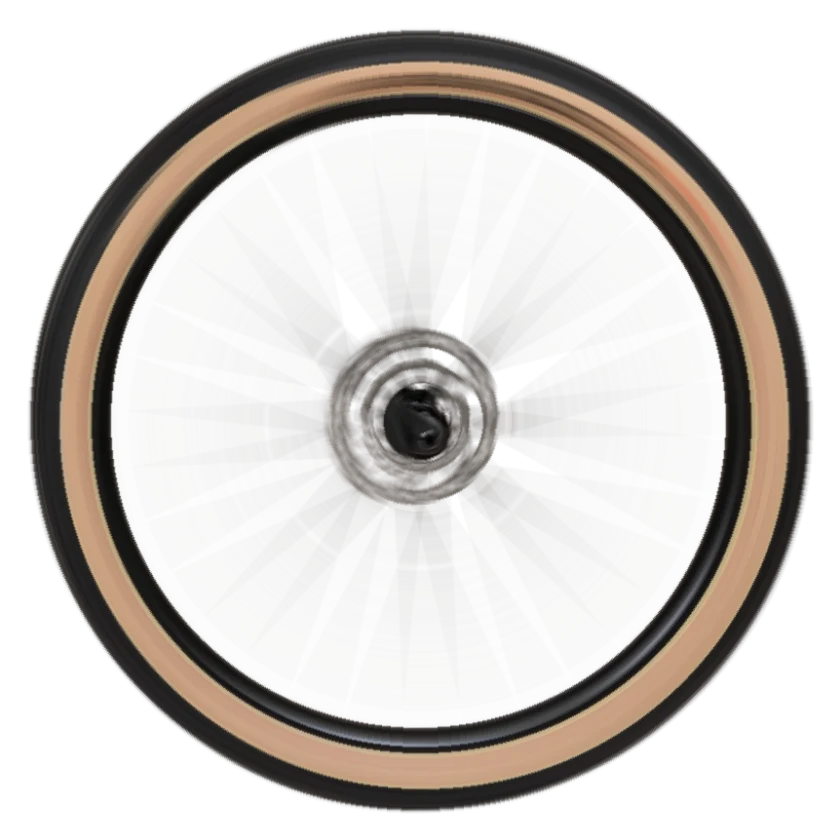
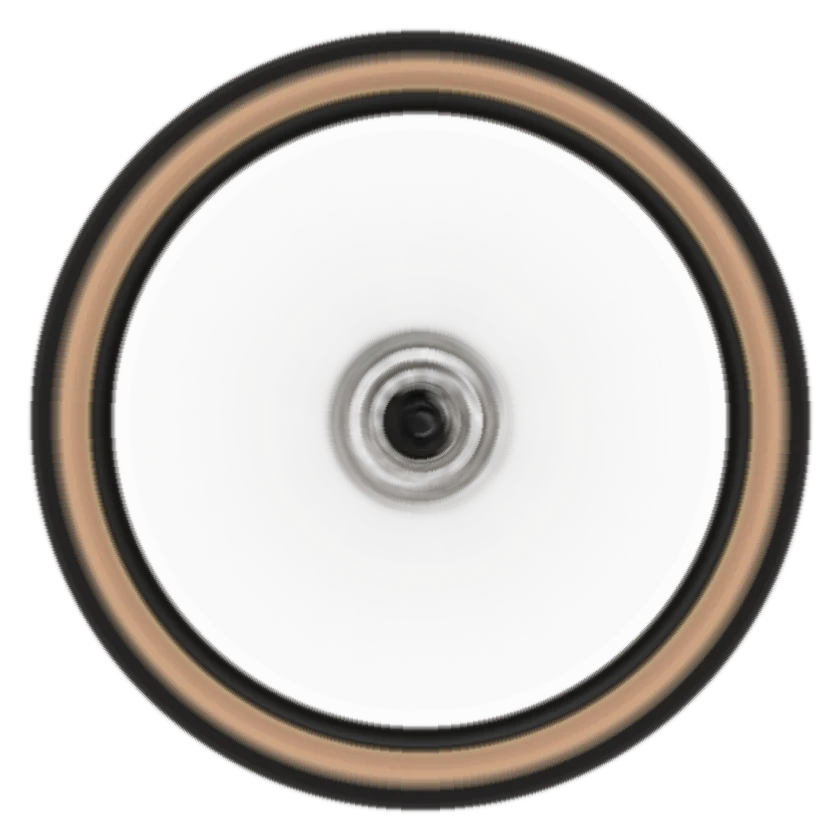
Roda rápida vira anel uniforme e a nítida some no giro

Changed region(s): [[0.0619, 0.0619, 0.9595, 0.9905], [0.4024, 0.3714, 0.619, 0.619]]

diff --git a/atual/index.html b/atual/index.html
@@ -19,7 +19,7 @@
 <script src="assets/vendor/gsap.min.js" defer></script>
 <script src="assets/vendor/ScrollTrigger.min.js" defer></script>
 <script src="assets/vendor/lenis.min.js" defer></script>
-<script src="assets/cena.js" defer></script>
+<script src="assets/cena.js?v=3" defer></script>
 <script src="assets/app.js" defer></script>
 </head>
 <body>
@@ -63,9 +63,9 @@
     <div class="palco-area">
       <div class="palco" id="palco">
         <div class="sombra" aria-hidden="true"></div>
-        <div class="parte roda" id="p-rt"><img src="assets/cena/roda-tras.webp?v=2" alt="" class="g" width="840" height="840"><img src="assets/cena/roda-tras-giro.webp?v=2" alt="" class="g giro" width="840" height="840">
+        <div class="parte roda" id="p-rt"><img src="assets/cena/roda-tras.webp?v=3" alt="" class="g" width="840" height="840"><img src="assets/cena/roda-tras-giro.webp?v=3" alt="" class="g giro" width="840" height="840">
           <a class="rot rot-rt" href="https://6afee227e12ae1f82abc1a2f--impactobike.netlify.app/c/pecas/rodas-e-pneus/"><b>Rodas e pneus</b><span>137 produtos →</span></a></div>
-        <div class="parte roda" id="p-rf"><img src="assets/cena/roda-frente.webp?v=2" alt="" class="g" width="840" height="840"><img src="assets/cena/roda-frente-giro.webp?v=2" alt="" class="g giro" width="840" height="840">
+        <div class="parte roda" id="p-rf"><img src="assets/cena/roda-frente.webp?v=3" alt="" class="g" width="840" height="840"><img src="assets/cena/roda-frente-giro.webp?v=3" alt="" class="g giro" width="840" height="840">
           <a class="rot rot-rf" href="https://6afee227e12ae1f82abc1a2f--impactobike.netlify.app/c/pecas/freios/"><b>Freios e discos</b><span>165 produtos →</span></a></div>
         <div class="parte" id="p-qd"><img src="assets/cena/quadro.webp" alt="Bicicleta de carbono vinho com transmissão Shimano" width="1054" height="870">
           <a class="rot rot-qd1" href="https://6afee227e12ae1f82abc1a2f--impactobike.netlify.app/c/pecas/quadros-e-suspensoes/"><b>Quadros e suspensões</b><span>29 produtos →</span></a>

diff --git a/atual/assets/cena.js b/atual/assets/cena.js
@@ -76,6 +76,7 @@
     var setR = rg.map(function (el) { return gsap.quickSetter(el, 'rotation', 'deg'); });
     var setC = gsap.quickSetter(coroa, 'rotation', 'deg');
     var setO = giros.map(function (el) { return gsap.quickSetter(el, 'opacity'); });
+    var nitidas = document.querySelectorAll('.parte.roda .g:not(.giro)'), setN = [].map.call(nitidas, function (el) { return gsap.quickSetter(el, 'opacity'); });
     gsap.ticker.add(function () {
       var a = estado.giro + estado.entrada, dv = Math.abs(a - ult); ult = a;
       suave += (dv - suave) * 0.22;
@@ -83,7 +84,7 @@
       setR.forEach(function (s) { s(a); });
       setC(-a * 0.16);
       var o = Math.max(0, Math.min(1, (suave - 2.4) / 9));
-      setO.forEach(function (s) { s(o); });
+      setO.forEach(function (s) { s(o); }); setN.forEach(function (s) { s(1 - o * 0.92); });
     });
   }
 
